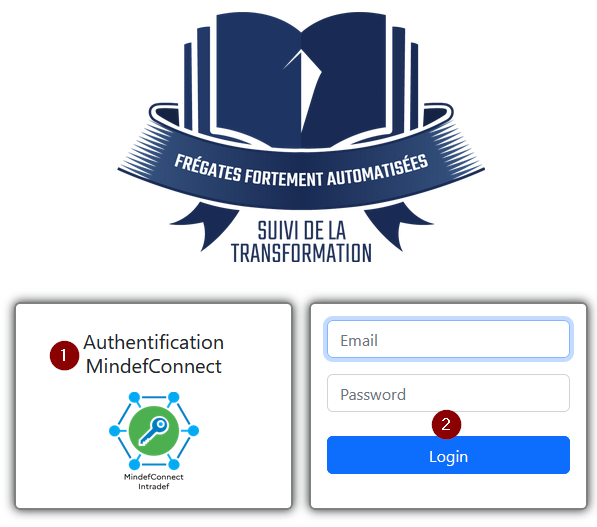
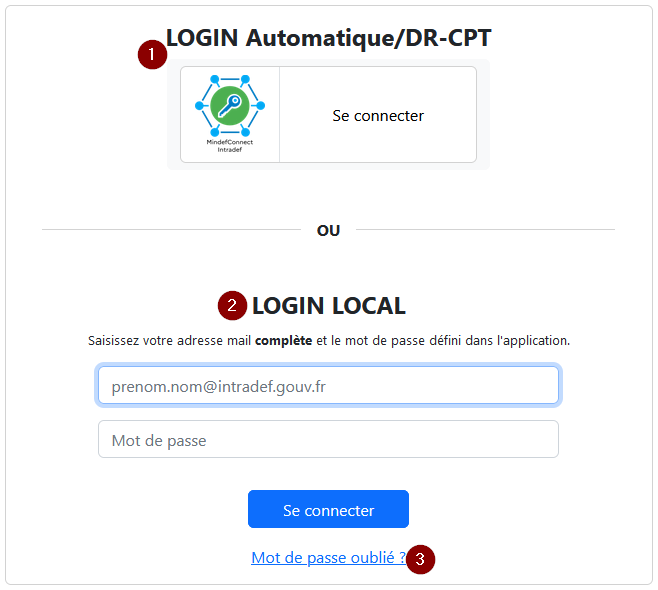
evolution doc connexion

diff --git a/resources/docs/1.0/connexion.md b/resources/docs/1.0/connexion.md
@@ -12,11 +12,10 @@
 Pour accéder à FFAST, l’utilisateur doit avoir accès à un ordinateur ayant accès à **Intradef**. Après avoir cliqué sur le bouton "login" de la page d'accueil du site, deux types de connexion sont disponibles :
   - (1) L'authentification MindefConnect (ex-login "auto") qui permet de se connecter avec ses identifiants DR-CPT.
   - (2) Le login "local" qui permet de se connecter avec son @mail et un mot de passe défini par l'utilisateur.
-  - (3) Le mot de passe oublié qui permet de modifier son mot de passe.
 <p>&nbsp;</p>
-<img src="{{ url(asset('docs/images/' . env('DOC_VERSION') . '/connexion/accueil_login.jpg')) }}" >
+<img src="{{ url(asset('docs/images/' . env('DOC_VERSION') . '/connexion/accueil_login.png')) }}" >
 <p>&nbsp;</p>
-
+  - (3) Le lien mot de passe oublié permet de réinitialiser son mot de passe local.
 >{info} Que la connexion soit établie avec le login local ou MindefConnect, dans les deux cas, vous travaillerez sur la même application. Il n'y a pas de travail "local" possible.
 
 <a name="login_auto">
@@ -43,20 +42,20 @@ Pour pallier le fait que certains marins n'ont pas de session Windows lors de le
 
 Pour cela, vous devez initialiser votre mot de passe local en passant par le menu "GD prénom NOM/changer le mot de passe" lors de votre première connexion MindefConnect. Ce mot de passe doit contenir au moins 8 caractères.
 
-Dans le cas ou l'authentification MindefConnect n'est pas possible, vous saisissez votre adresse mail intradef complète et le mot de passe choisi (1). Après validation (2), vous pourrez accéder à l'application. En cas de mot de passe oublié il suffira juste de cliqué sur le lien (3)"Mot de passe oublié ?"
+Dans le cas ou l'authentification MindefConnect n'est pas possible, vous saisissez votre adresse mail intradef complète et le mot de passe choisi (1). Après validation (2), vous pourrez accéder à l'application. En cas d'oubli de votre mot de passe local, cliquez sur le lien (3) "Mot de passe oublié ?"
 <p>&nbsp;</p>
-<img src="{{ url(asset('docs/images/' . env('DOC_VERSION') . '/connexion/login_local.png' )) }}" width="300px">
+<img src="{{ url(asset('docs/images/' . env('DOC_VERSION') . '/connexion/login_local.png' )) }}" width="400px">
 <p>&nbsp;</p>
 
-Une fois ce lien cliqué vous devrez entrer votre mail pour qu'un lien de réinitialisation vous soit envoyé.
-<img src="{{ url(asset('docs/images/' . env('DOC_VERSION') . '/connexion/envoieDuLienResetPwd.PNG' )) }}" width="700px">
-
-Cliquez sur "Réinitialiser mot de passe".
+Saisissez votre adresse mail intradef complète et validez. Un lien permettant de réinitialiser votre mot de passe vous est envoyé sur votre messagerie.
+<img src="{{ url(asset('docs/images/' . env('DOC_VERSION') . '/connexion/dde_reinit_mdp.png' )) }}" width="400px">
+<p>&nbsp;</p>
+Dans le mail reçu, cliquez sur le bouton "Réinitialiser mot de passe".
 <img src="{{ url(asset('docs/images/' . env('DOC_VERSION') . '/connexion/mail.PNG' )) }}" width="700px">
-
-Puis il vous suffira de changer votre mot de passe !
-<img src="{{ url(asset('docs/images/' . env('DOC_VERSION') . '/connexion/réinisialiser.PNG' )) }}" width="700px">
-
+<p>&nbsp;</p>
+Saisissez deux fois votre nouveau mot de passe (minimum 8 caractères)!
+<img src="{{ url(asset('docs/images/' . env('DOC_VERSION') . '/connexion/saisie_nvx_mdp.png' )) }}" width="700px">
+<p>&nbsp;</p>
 
 Si la réinitialisation du mot de passe DR-CPT n’est pas possible ou ne peut pas être faite, et que vous n'avez pas initialisé vos identifiants locaux, il faut l’intervention d’un administrateur de FFAST. Il suffit donc d’envoyer un mail à l’adresse: ffast.notification.tec@intradef.gouv.fr.
 D’une façon générale, l’administrateur de FFAST s’efforcera de communiquer un mot de passe temporaire à l’utilisateur et à un cadre de proximité. Il sera alors conseillé à l’utilisateur de modifier son mot de passe à la première connexion.
